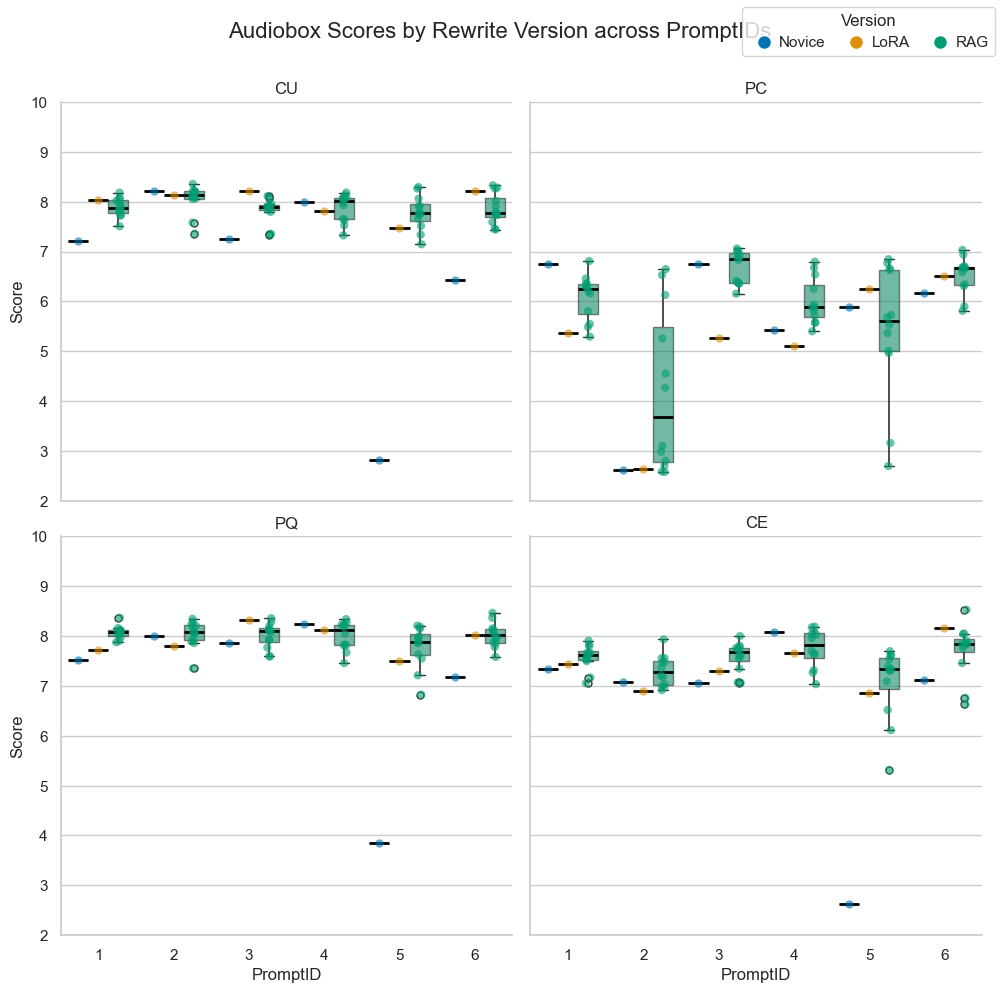
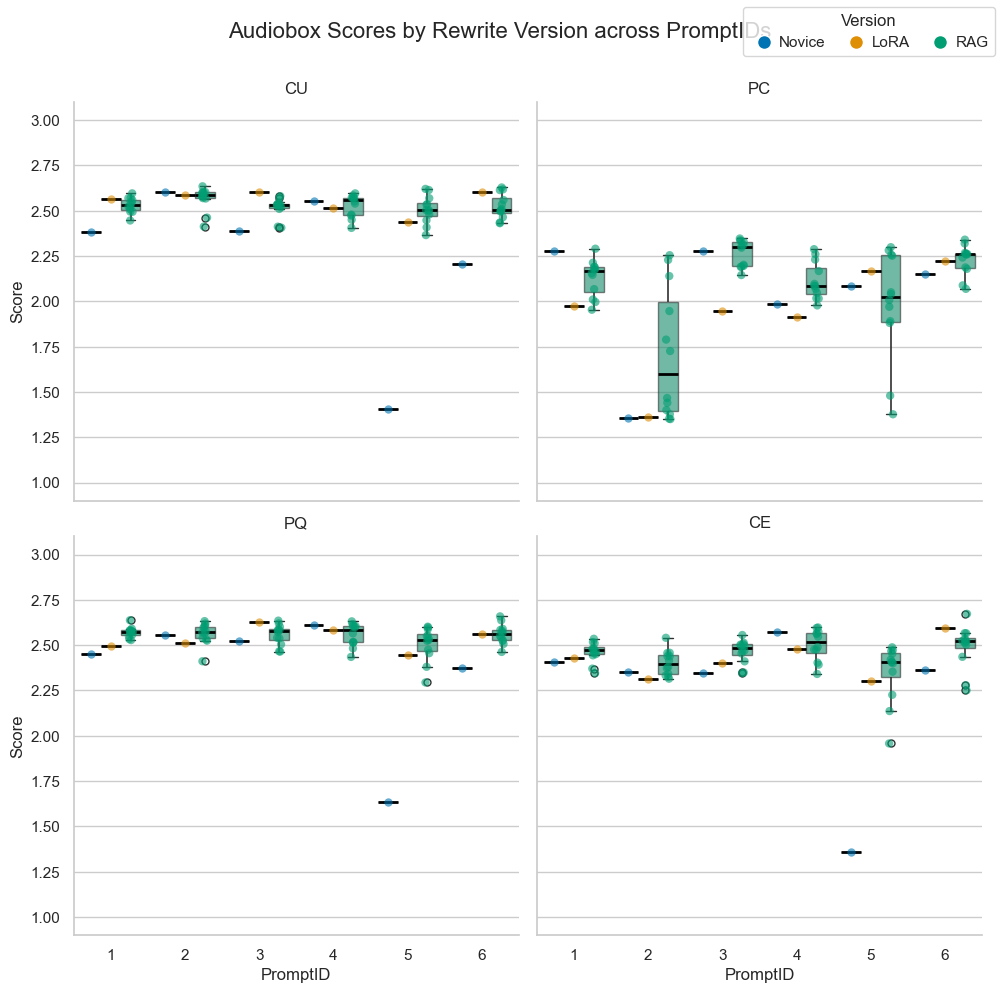
update scaling of audiobox to be comparable with survey results

diff --git a/analysis/audiobox_aggregate.py b/analysis/audiobox_aggregate.py
@@ -109,6 +109,9 @@ df_long["Version"] = df_long["Version"].cat.set_categories(["Novice", "LoRA", "R
 df_long["PromptID"] = df_long["PromptID"].cat.set_categories(["1", "2", "3", "4", "5", "6"], ordered=True)
 df_long["Score"] = pd.to_numeric(df_long["Score"])
 
+# scaling from 1-10 Audiobox Results range to 1-3 Survey Results range
+df_long["Score"] = ((df_long["Score"] - 1) / 9) * 2 + 1
+
 def plot_metrics_by_promptid_facetgrid(df_long, save_path):
     sns.set_theme(style="whitegrid")
     # Use a colorblind friendly palette for the boxplots
@@ -150,7 +153,7 @@ def plot_metrics_by_promptid_facetgrid(df_long, save_path):
         ax.set_title(f"{metric}")
 
     # Adjust y-axis and overall labels:
-    g.set(ylim=(2, 10))
+    g.set(ylim=(0.9,3.1))
     g.set_axis_labels("PromptID", "Score")
     g.figure.suptitle("Audiobox Scores by Rewrite Version across PromptIDs", fontsize=16)
     g.figure.subplots_adjust(top=0.9)
@@ -214,7 +217,7 @@ def plot_metrics_facetgrid(df_long, save_path):
         ax.set_title(f"{metric}")
 
     # Set Y-axis range
-    g.set(ylim=(2, 10))
+    g.set(ylim=(0.9,3.1))
     g.set_axis_labels("Version", "Score")
     g.figure.suptitle("Audiobox Scores across Rewrite Versions", fontsize=16)
     g.figure.subplots_adjust(top=0.9)
@@ -277,7 +280,7 @@ def plot_metrics_by_version_then_promptid_facetgrid(df_long, save_path):
         ax.set_title(f"{metric}")
     
     # Adjust y-axis and overall labels.
-    g.set(ylim=(2, 10))
+    g.set(ylim=(0.9, 3.1))
     g.set_axis_labels("Version", "Score")
     g.figure.suptitle("Audiobox Scores by PromptID across Rewrite Versions", fontsize=16)
     g.figure.subplots_adjust(top=0.9)
@@ -325,6 +328,20 @@ for metric in unique_metrics:
     print(result.summary())
     print("\n")
 
+# OLS for audiobox, PromptID as fixed effect
+results = {}
+for metric in unique_metrics:
+    # Subset the data for the current metric
+    subset = df_long[df_long["Metric"] == metric]
+    
+    model = smf.ols("Score ~ C(Version) * C(PromptID)", data=subset)
+    result = model.fit()
+    
+    results[metric] = result
+    print(f"Results for metric: {metric}")
+    print(result.summary())
+    print("\n")
+
 # Example randomness of the Diffusion process Prompt 5 Indie 
 data = pd.read_json('analysis/diffusion_variation.jsonl', lines=True)
 df = pd.DataFrame(data)
@@ -341,7 +358,8 @@ versions = df['version'].cat.categories.tolist()
 
 # Define score types
 score_types = ['CU', 'PC', 'PQ', 'CE']
-
+for score in score_types:
+    df[score] = ((df[score] - 1) / 9) * 2 + 1
 # Create boxplots for each score grouped by the custom version order
 fig, axes = plt.subplots(1, 4, figsize=(20, 5), sharey=True)
 for i, score in enumerate(score_types):
